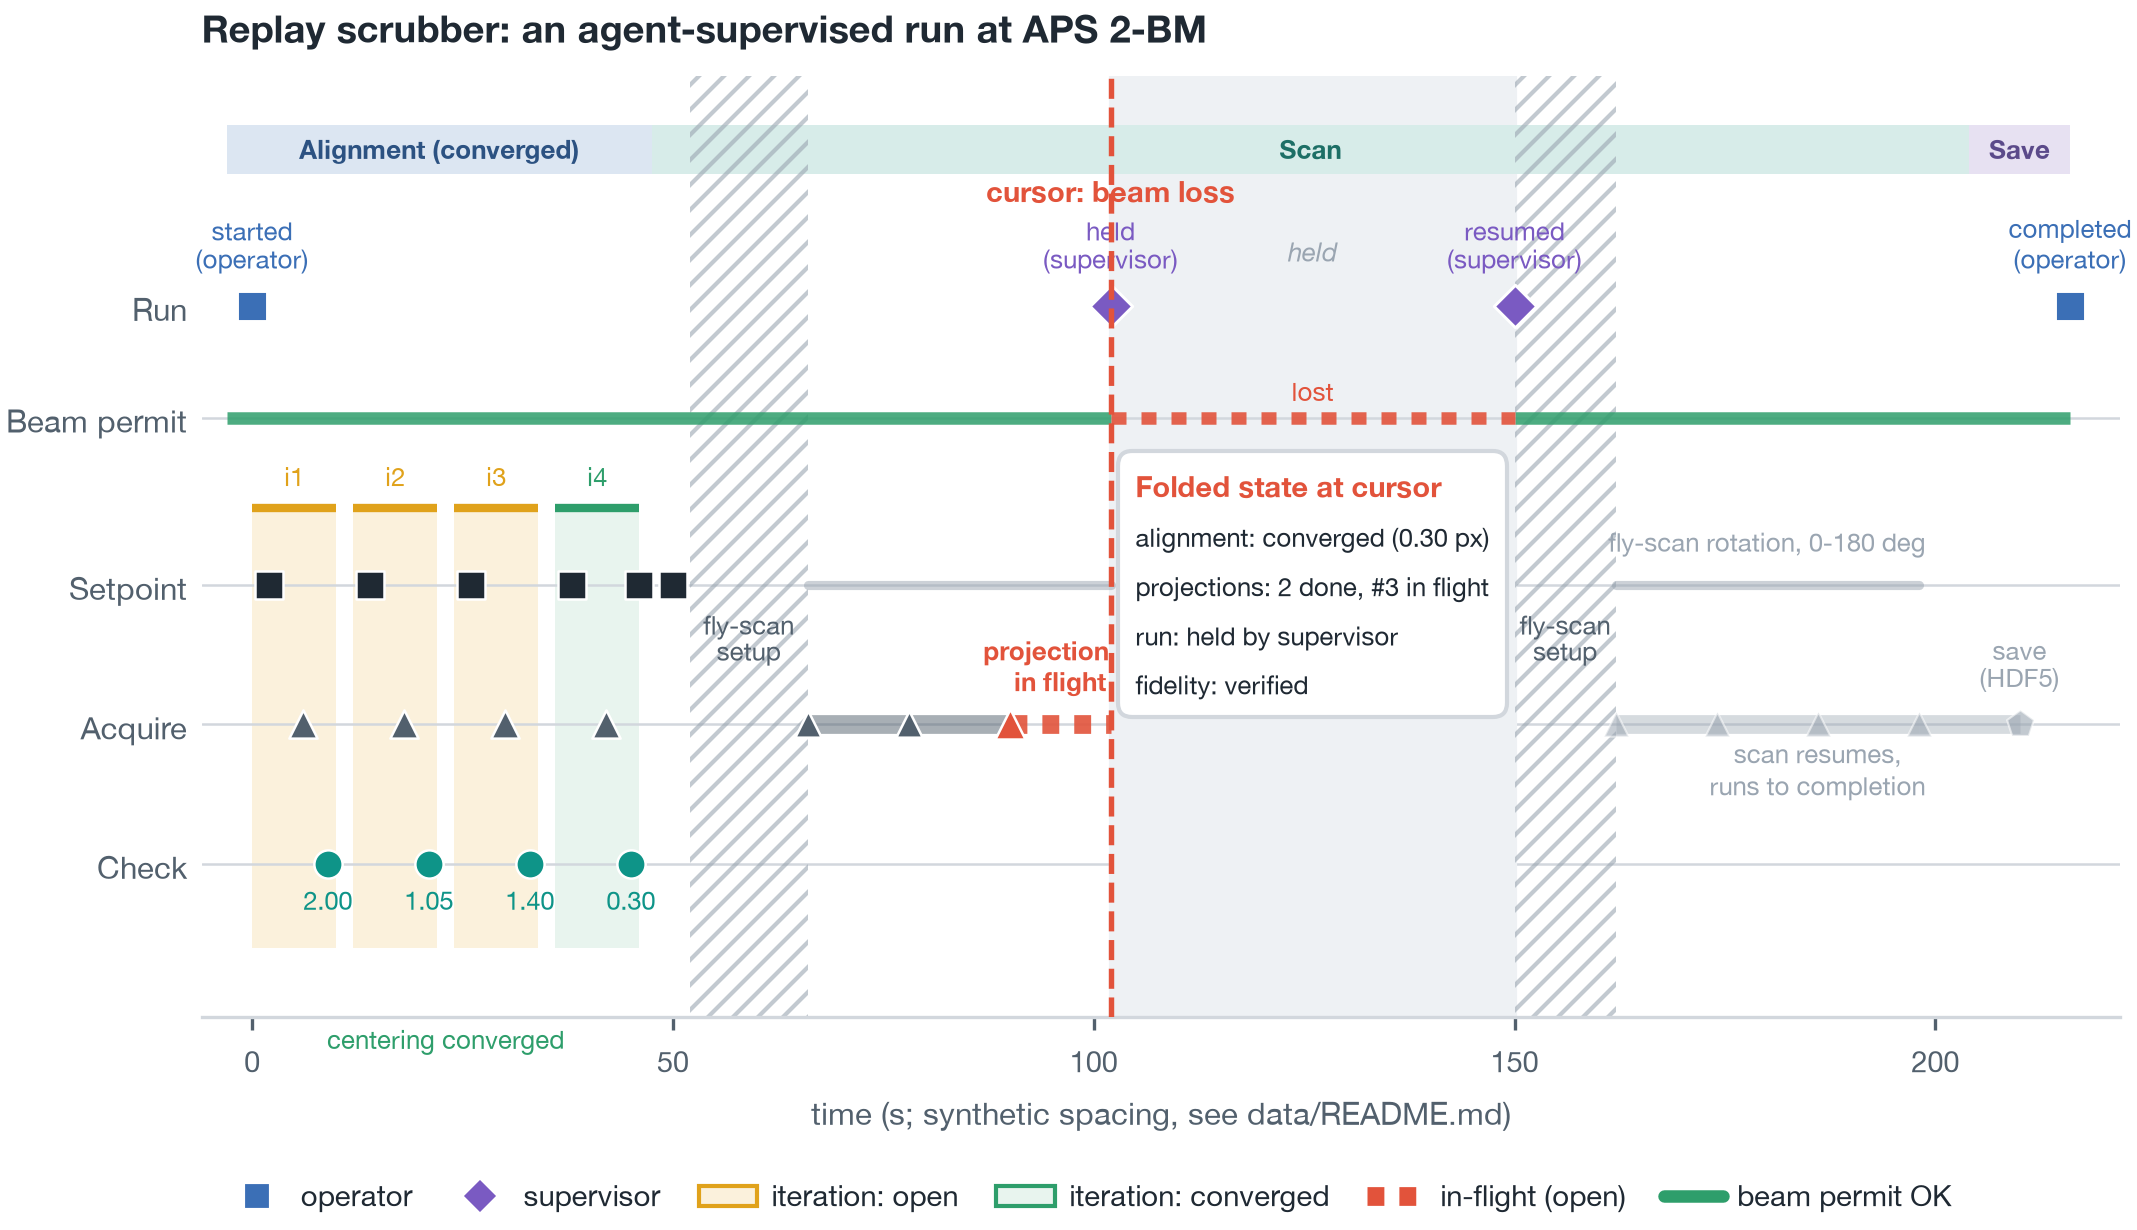
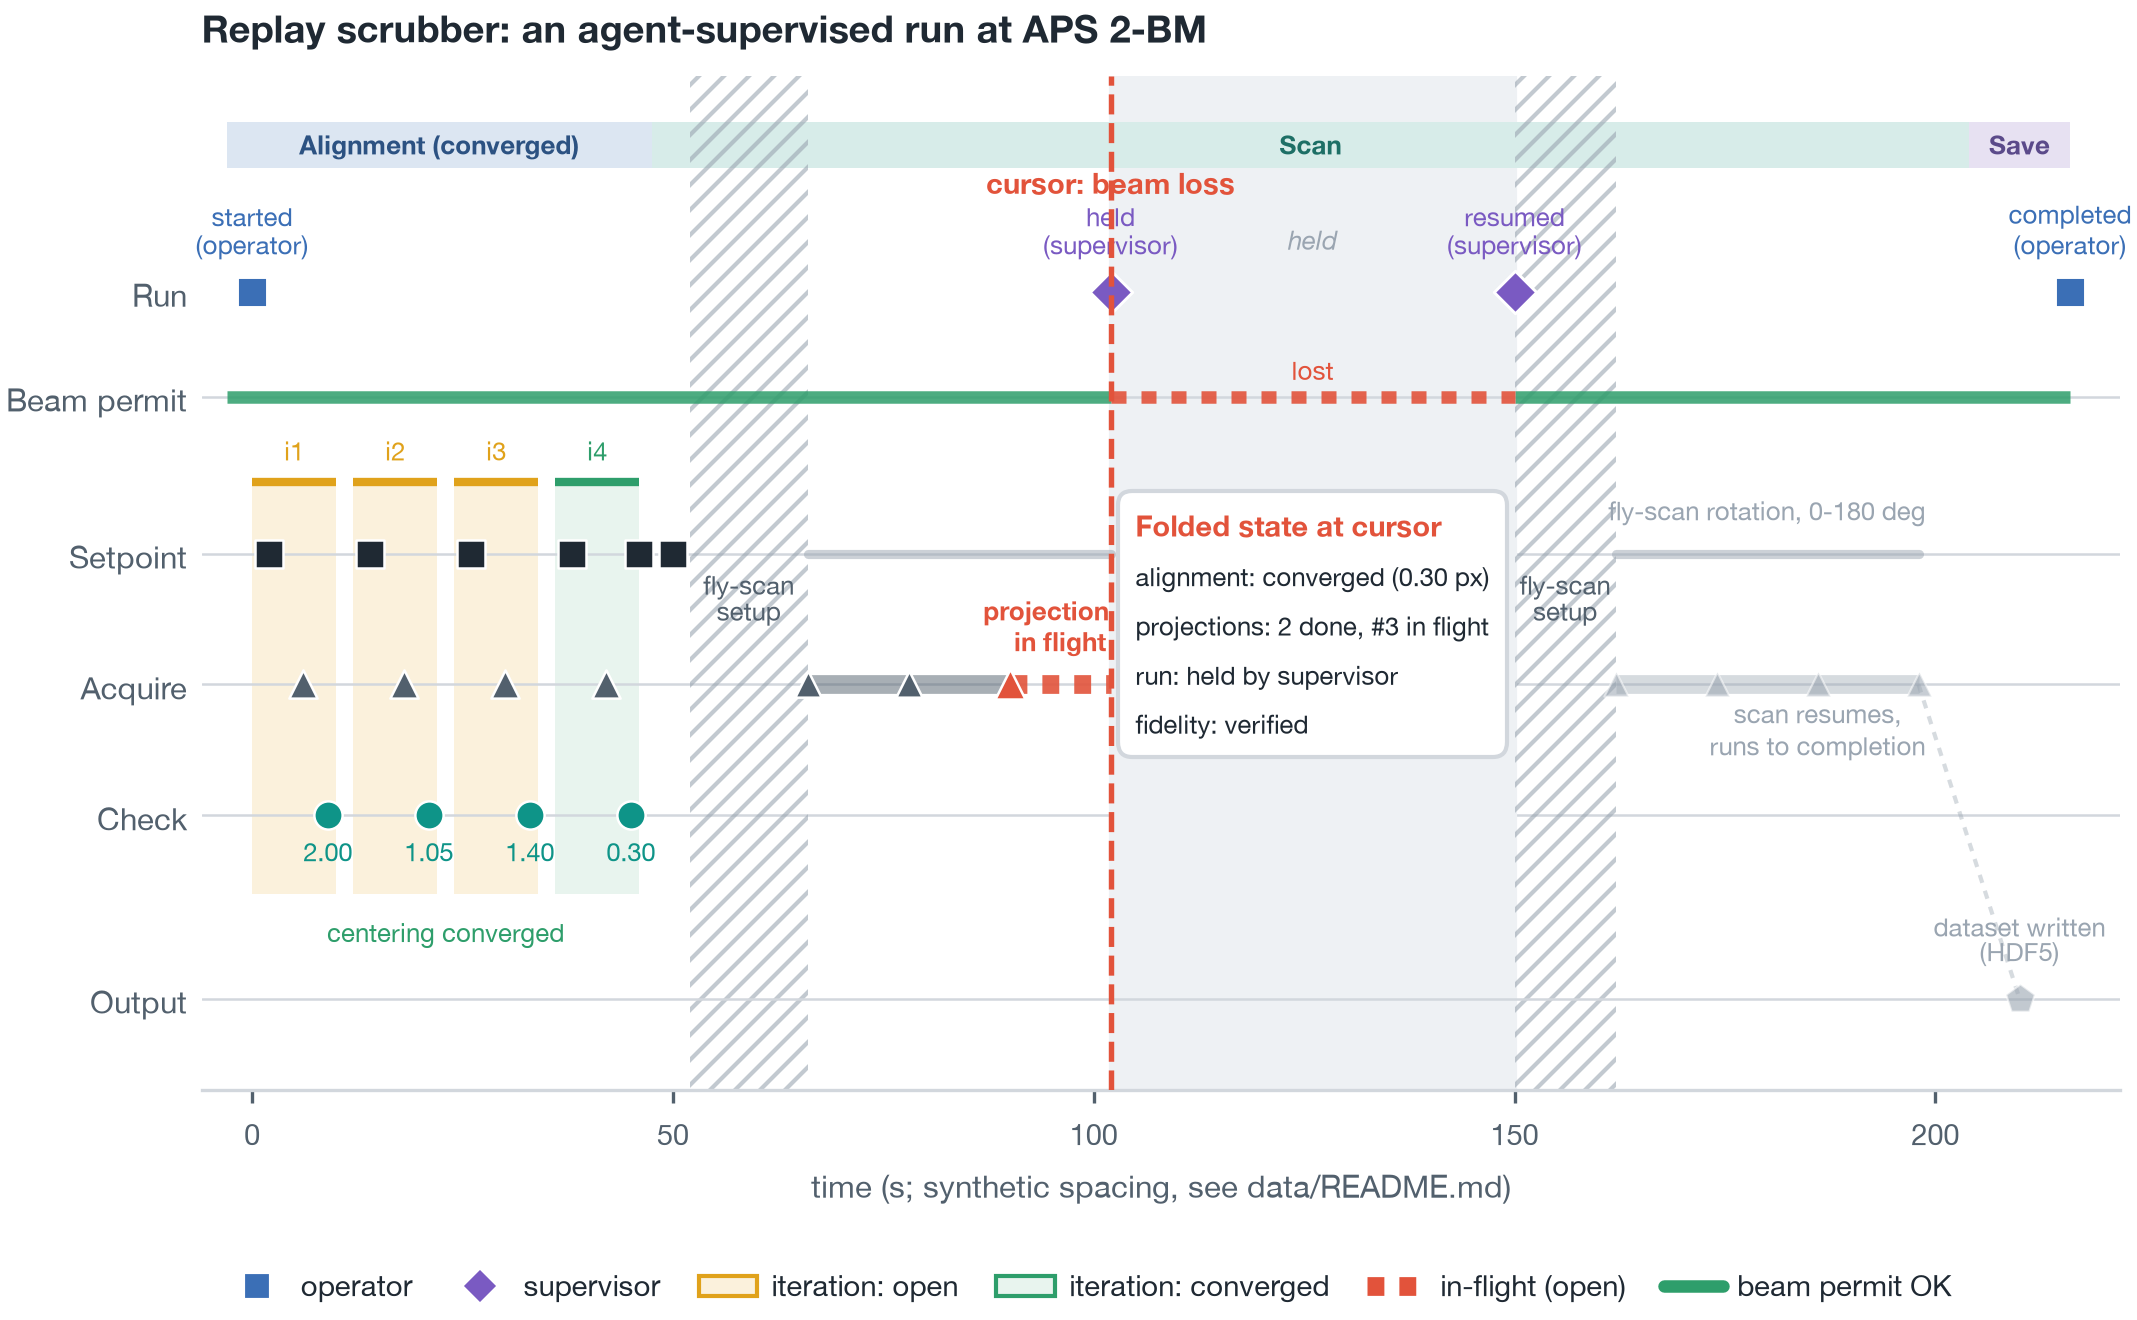
docs(papers): move data save to its own Output lane in F1
The save (write_dataset) was sharing the Acquire lane with the detector frames,
but writing a dataset to disk is an action, not an acquisition, so it read as a
contradiction under a lane labelled Acquire. Give it a dedicated Output lane
below the swim-lanes: Acquire is now purely frame capture, and the save sits on
Output as a pentagon ("dataset written (HDF5)"), linked to the last projection
by a faint connector. Each lane now matches its intention (run / permit /
setpoint / acquire / check / output).

Figure grew one lane; body still within 6 pages excluding references. Builds
clean.

diff --git a/papers/2026-vaxautosci-scrubber/figures/render_f1.py b/papers/2026-vaxautosci-scrubber/figures/render_f1.py
@@ -29,7 +29,8 @@ LANE_Y = {"setpoint": 2, "action": 1, "check": 0}
 LANE_LABEL = {2: "Setpoint", 1: "Acquire", 0: "Check"}
 LANE_COLOR = {"setpoint": s.INK, "action": s.SUBINK, "check": s.STATE}
 LANE_MARKER = {"setpoint": "s", "action": "^", "check": "o"}
-Y_BAND = (-0.6, 2.55)  # iteration band spans the three swim-lanes
+Y_OUTPUT = -1.4        # output lane (dataset written to disk), below the swim-lanes
+Y_BAND = (-0.6, 2.55)  # iteration band spans the three acquisition swim-lanes
 Y_PERMIT = 3.2         # beam-permit lane (safety envelope the supervisor gates on)
 Y_RUN = 4.0            # run-lifecycle / who-drove-it lane
 Y_PHASE = (4.95, 5.30)  # top strip of color-coded phase bars
@@ -61,7 +62,7 @@ def main() -> None:
     beam_back = secs(prov["beam_back_at"])
     xmax = max(secs(e["at"]) for e in run_events)
 
-    fig, ax = s.figure(s.FULL_WIDTH, 4.1)
+    fig, ax = s.figure(s.FULL_WIDTH, 4.4)
 
     # Faint lane baselines anchor the swim-lanes.
     for y in LANE_Y.values():
@@ -138,7 +139,7 @@ def main() -> None:
         ax.text((a + b) / 2, band_hi + 0.12, f"i{it['iteration_index']}",
                 ha="center", va="bottom", fontsize=s.SIZE["small"], color=col)
     ax.text((secs(iters[0]["started_at"]) + secs(iters[-1]["ended_at"])) / 2,
-            band_lo - 0.55, "centering converged", fontsize=s.SIZE["small"],
+            band_lo - 0.18, "centering converged", fontsize=s.SIZE["small"],
             va="top", ha="center", color=s.GOOD)
 
     # Activity swim-lanes (alignment). Science projections are drawn separately.
@@ -206,16 +207,17 @@ def main() -> None:
                 textcoords="offset points", xytext=(0, -17), ha="center",
                 fontsize=s.SIZE["small"], color=s.MUTE, linespacing=1.0)
 
-    # Data save: the collected dataset is written to disk at the end (past the
-    # cursor, so ghosted like the rest of the post-resume scan).
+    # Data save: the collected dataset is written to disk at the end, on its own
+    # output lane (an action, not an acquisition). Past the cursor, so ghosted.
     if save_time is not None:
-        ax.plot([post_ok[-1], save_time], [y, y], color=s.MUTE, lw=4.5, alpha=0.4,
-                solid_capstyle="butt", zorder=1)
-        ax.scatter([save_time], [y], marker="p", s=46, color=s.MUTE, alpha=0.6,
-                   edgecolors="white", linewidths=0.5, zorder=3)
-        ax.annotate("save\n(HDF5)", (save_time, y), textcoords="offset points",
-                    xytext=(0, 9), ha="center", fontsize=s.SIZE["small"],
-                    color=s.MUTE, linespacing=0.9)
+        ax.axhline(Y_OUTPUT, color=s.RULE, lw=0.6, zorder=0)
+        ax.plot([post_ok[-1], save_time], [y, Y_OUTPUT], color=s.MUTE, lw=1.0,
+                ls=(0, (2, 2)), alpha=0.4, zorder=1)
+        ax.scatter([save_time], [Y_OUTPUT], marker="p", s=52, color=s.MUTE,
+                   alpha=0.6, edgecolors="white", linewidths=0.5, zorder=3)
+        ax.annotate("dataset written\n(HDF5)", (save_time, Y_OUTPUT),
+                    textcoords="offset points", xytext=(0, 9), ha="center",
+                    fontsize=s.SIZE["small"], color=s.MUTE, linespacing=0.9)
 
     # The rotary stage rotates continuously (fly-scan), paused during the hold and
     # the restart: a faint span on the setpoint lane shows the motor moving.
@@ -254,11 +256,11 @@ def main() -> None:
     card.set_zorder(6)
     ax.add_artist(card)
 
-    yticks = list(LANE_LABEL) + [Y_PERMIT, Y_RUN]
-    ylabels = [LANE_LABEL[k] for k in LANE_LABEL] + ["Beam permit", "Run"]
+    yticks = [Y_OUTPUT] + list(LANE_LABEL) + [Y_PERMIT, Y_RUN]
+    ylabels = ["Output"] + [LANE_LABEL[k] for k in LANE_LABEL] + ["Beam permit", "Run"]
     ax.set_yticks(yticks)
     ax.set_yticklabels(ylabels, fontsize=s.SIZE["label"])
-    ax.set_ylim(-1.1, Y_PHASE[1] + 0.35)
+    ax.set_ylim(Y_OUTPUT - 0.7, Y_PHASE[1] + 0.35)
     ax.set_xlim(-6, xmax + 6)
     ax.set_xlabel("time (s; synthetic spacing, see data/README.md)",
                   fontsize=s.SIZE["label"])
